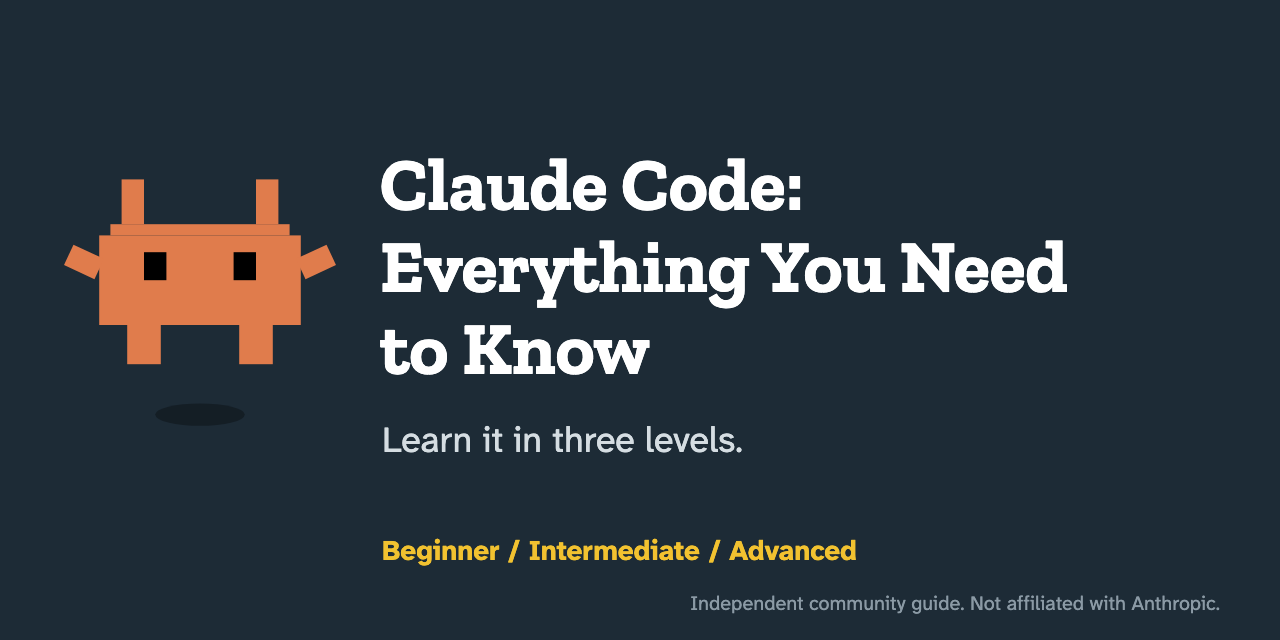
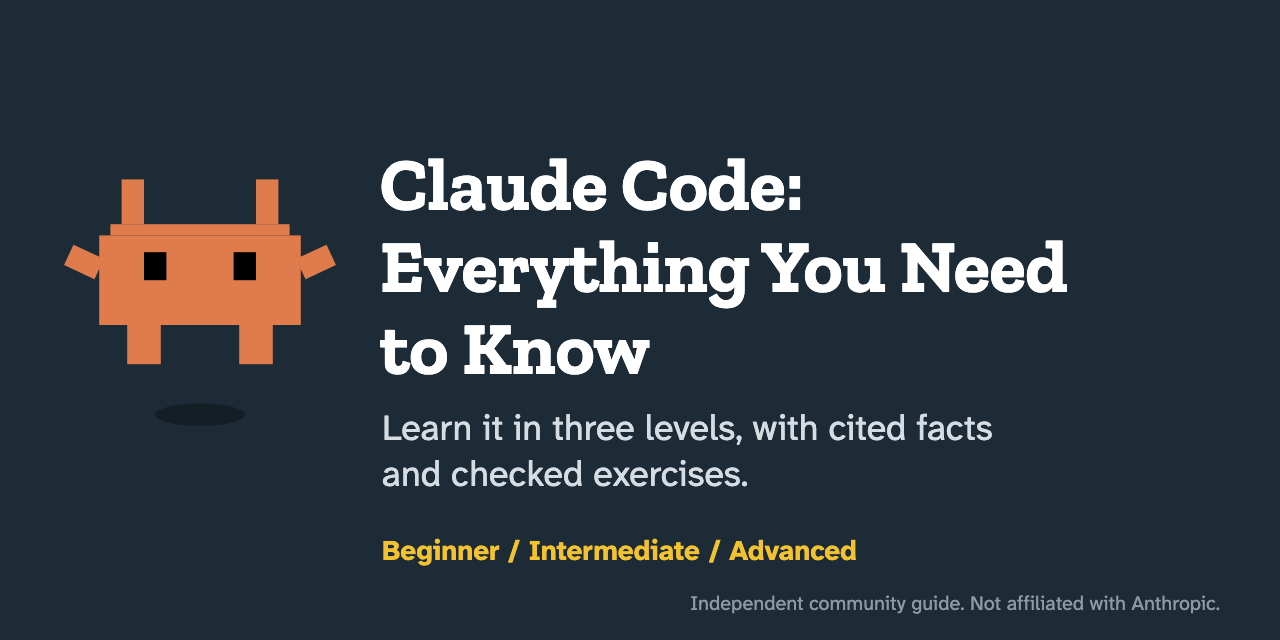
docs: re-verify every page against Claude Code v2.1.292 and put the full tagline on the social card (#125)

Changed region(s): [[0.2812, 0.6562, 0.7812, 0.7812]]

diff --git a/CHANGELOG.md b/CHANGELOG.md
@@ -4,9 +4,9 @@ Editions of this guide, newest first. An edition is tagged `vYYYY.MM`, and a cor
 
 ## Unreleased
 
-Baseline: Claude Code v2.1.285 (stable), frozen on 2026-10-05.
+Baseline: Claude Code v2.1.292 (stable), frozen on 2026-10-15.
 
-Every change in the next edition is verified against this version, the `stable` dist-tag of [`@anthropic-ai/claude-code`](https://www.npmjs.com/package/@anthropic-ai/claude-code?activeTab=versions) on 2026-10-05. It stays frozen until the edition ships, unless a later `stable` release removes, renames or changes the default of something a lesson teaches.
+Every change in the next edition is verified against this version, the `stable` dist-tag of [`@anthropic-ai/claude-code`](https://www.npmjs.com/package/@anthropic-ai/claude-code?activeTab=versions) on 2026-10-15. It stays frozen until the edition ships, unless a later `stable` release removes, renames or changes the default of something a lesson teaches.
 
 Editions 2 and 3: the Intermediate and Advanced paths, with checked exercises. Every level is now rebuilt, and no page from the previous edition remains.
 
@@ -23,6 +23,7 @@ Editions 2 and 3: the Intermediate and Advanced paths, with checked exercises. E
 ### Changed
 
 - The animated Claude mascot is back beside README's title, and the social card shows it in place of the trail blazes. It comes from [shanraisshan/claude-code-best-practice](https://github.com/shanraisshan/claude-code-best-practice) under the MIT License.
+- Every stamped page is re-verified against Claude Code v2.1.292 (stable), and the social card carries the full tagline, "Learn it in three levels, with cited facts and checked exercises."
 - The topic pages, [Commands by level](docs/reference/commands.md) and the [Feature map](docs/reference/feature-map.md) link the Intermediate and Advanced lessons and Electives, and "When to use what" on the [Intermediate index](docs/intermediate/README.md#when-to-use-what) links the dynamic workflows lesson.
 - docs/reference/effort-levels.md and docs/skills.md are now stubs that point to the lessons and reference pages that replace them, and the `mcp-servers/` and `specialized-agents/` stubs point to the MCP and subagent lessons.
 - docs/agent-teams.md, docs/workflows.md and docs/reference/faq.md are now stubs that point to the lessons, Electives and reference pages that replace them.

diff --git a/examples/advanced/06-share-your-setup/README.md b/examples/advanced/06-share-your-setup/README.md
@@ -46,7 +46,7 @@ Then commit `team-marketplace/` and `.claude/settings.json`.
 `dot-claude-plugin/marketplace.json` and `plugins/team-kit/.claude-plugin/plugin.json`:
 - **What:** a marketplace, `team-tools`, that lists `team-kit` by the relative path `./plugins/team-kit`, and the plugin's manifest, `team-kit` at version `0.1.0`. The entry name and the manifest name are the same, as the docs ask ([Create a marketplace](https://code.claude.com/docs/en/plugins/create-marketplace#keep-the-entry-name-and-the-manifest-name-the-same)).
 - **When:** in a session where the plugin is enabled, `/team-kit:onboard` runs the skill ([Add components to a plugin](https://code.claude.com/docs/en/plugins/components#skills)), and `@agent-team-kit:config-reviewer` runs the subagent ([Create custom subagents](https://code.claude.com/docs/en/sub-agents#invoke-subagents-explicitly)). Claude can also use either one when your request matches its description.
-- **Side effects:** none. The plugin has no hooks, monitors, MCP or LSP servers or `bin/` folder, so nothing in it runs code, and its skill pre-approves no tools with `allowed-tools`; its skill and subagent enter Claude's context as instructions ([Plugin security and trust](https://code.claude.com/docs/en/plugins/security#understand-what-a-plugin-can-do)). The subagent's only tools are Read, Grep and Glob. The skill and the subagent carry their own header blocks, as comments at the top of their frontmatter.
+- **Side effects:** none. The plugin has no hooks, monitors, mods, MCP or LSP servers or `bin/` folder, so nothing in it runs code, and its skill pre-approves no tools with `allowed-tools`; its skill and subagent enter Claude's context as instructions ([Plugin security and trust](https://code.claude.com/docs/en/plugins/security#understand-what-a-plugin-can-do)). The subagent's only tools are Read, Grep and Glob. The skill and the subagent carry their own header blocks, as comments at the top of their frontmatter.
 - **Requires:** Claude Code. Platforms: any; `test.sh` needs bash, jq and awk (macOS, Linux and WSL 2).
 - **Remove:** see [Remove it](#remove-it).
 

diff --git a/docs/intermediate/02-organize-memory.md b/docs/intermediate/02-organize-memory.md
@@ -1,6 +1,6 @@
 # Organize project memory and see what loaded
 
-<sub>**Intermediate** · Lesson 2 of 8 · about 20 minutes · Needs: [Turn a repeated workflow into a skill](01-first-skill.md) · Verified against Claude Code v2.1.285 (stable) on 2026-10-06</sub>
+<sub>**Intermediate** · Lesson 2 of 8 · about 20 minutes · Needs: [Turn a repeated workflow into a skill](01-first-skill.md) · Verified against Claude Code v2.1.292 (stable) on 2026-10-15</sub>
 
 ## Goal
 
@@ -23,7 +23,7 @@ A long `CLAUDE.md` is hard to maintain, and every line of it loads into every se
 |---|---|
 | `CLAUDE.md` at the project root, and a rule without `paths:` | When the session starts |
 | A file named in an `@path` import | With the file that imports it |
-| A rule with `paths:` | When Claude reads a matching file with its Read tool |
+| A rule with `paths:` | When Claude reads, writes or edits a matching file with its Read, Write or Edit tool |
 | Auto memory, the notes Claude keeps for itself | When the session starts: the first 200 lines or 25KB of its `MEMORY.md` index |
 
 When Claude ignores an instruction, first find out whether its file loaded. If it did, the wording is the likely problem: make it concrete, and remove any instruction that contradicts it ([Debug your configuration](https://code.claude.com/docs/en/debug-your-config#see-what-loaded-into-context)).

diff --git a/docs/advanced/capstone.md b/docs/advanced/capstone.md
@@ -1,6 +1,6 @@
 # Advanced capstone: add CI review your team can share
 
-<sub>**Advanced** · Capstone · 30 to 60 minutes, plus run time · Needs: the seven [Advanced lessons](README.md), or their skills · Verified against Claude Code v2.1.285 (stable) on 2026-10-09</sub>
+<sub>**Advanced** · Capstone · 30 to 60 minutes, plus run time · Needs: the seven [Advanced lessons](README.md), or their skills · Verified against Claude Code v2.1.292 (stable) on 2026-10-15</sub>
 
 This task puts the whole Advanced level together, in a new copy of the practice template that you tear down at the end. It has no worked example: the brief says what the team needs, and you choose how to build it. The [Advanced Exit](README.md#by-the-end-of-this-level-you-can) is the list of what you can do by the end of this level. The check reads what you commit and two files you save under `.practice/`, and you tick the rest of the Exit yourself under [What the check can't see](#what-the-check-cant-see).
 

diff --git a/docs/beginner/capstone.md b/docs/beginner/capstone.md
@@ -1,6 +1,6 @@
 # Beginner capstone: fix a reported bug, from plan to commit
 
-<sub>**Beginner** · Capstone · 30 to 60 minutes · Needs: the five [Beginner lessons](README.md), or their skills · Verified against Claude Code v2.1.285 (stable) on 2026-10-05</sub>
+<sub>**Beginner** · Capstone · 30 to 60 minutes · Needs: the five [Beginner lessons](README.md), or their skills · Verified against Claude Code v2.1.292 (stable) on 2026-10-15</sub>
 
 This task puts the whole Beginner level together. Unlike the lessons, it has no worked example: the steps say what to do, and you choose the prompts. The [Beginner Exit](README.md#by-the-end-of-this-level-you-can) is the list of what you can do by the end of this level. The check reads the files and the commit this task leaves behind, and you tick the rest of the Exit yourself under [What the check can't see](#what-the-check-cant-see). When both are done, you've shown the Beginner Exit, whether you took the lessons or not.
 

diff --git a/docs/intermediate/capstone.md b/docs/intermediate/capstone.md
@@ -1,6 +1,6 @@
 # Intermediate capstone: get a repository ready for a new teammate
 
-<sub>**Intermediate** · Capstone · 30 to 60 minutes · Needs: the eight [Intermediate lessons](README.md), or their skills · Verified against Claude Code v2.1.285 (stable) on 2026-10-06</sub>
+<sub>**Intermediate** · Capstone · 30 to 60 minutes · Needs: the eight [Intermediate lessons](README.md), or their skills · Verified against Claude Code v2.1.292 (stable) on 2026-10-15</sub>
 
 This task puts the whole Intermediate level together. It has no worked example: the brief says what the team needs, and you choose how to build it. The [Intermediate Exit](README.md#by-the-end-of-this-level-you-can) is the list of what you can do by the end of this level. The check reads what you commit, and you tick the rest of the Exit yourself under [What the check can't see](#what-the-check-cant-see).
 

diff --git a/docs/intermediate/08-plugins.md b/docs/intermediate/08-plugins.md
@@ -1,6 +1,6 @@
 # Install and manage plugins
 
-<sub>**Intermediate** · Lesson 8 of 8 · about 20 minutes · Needs: [Turn a repeated workflow into a skill](01-first-skill.md), [Enforce a rule with a hook](05-hooks.md), [Delegate to a custom subagent](06-subagents.md), [Connect a tool with MCP](07-mcp.md) · Verified against Claude Code v2.1.285 (stable) on 2026-10-06</sub>
+<sub>**Intermediate** · Lesson 8 of 8 · about 20 minutes · Needs: [Turn a repeated workflow into a skill](01-first-skill.md), [Enforce a rule with a hook](05-hooks.md), [Delegate to a custom subagent](06-subagents.md), [Connect a tool with MCP](07-mcp.md) · Verified against Claude Code v2.1.292 (stable) on 2026-10-15</sub>
 
 ## Goal
 

diff --git a/docs/reference/models.md b/docs/reference/models.md
@@ -1,7 +1,7 @@
 <a id="models--specifications--pricing"></a>
 # Models and effort
 
-<sub>Verified against Claude Code v2.1.285 (stable) on 2026-10-05</sub>
+<sub>Verified against Claude Code v2.1.292 (stable) on 2026-10-15</sub>
 
 Which model a session runs and how hard it thinks are two separate choices. This page is the lookup for both: the model aliases, the effort levels and the ways to set them. Which model and effort a task needs is taught in the Intermediate lesson [Pick the model and effort](../intermediate/03-model-and-effort.md). To compare the current models and find their IDs, see Anthropic's [models overview](https://platform.claude.com/docs/en/about-claude/models/overview).
 

diff --git a/docs/reference/commands.md b/docs/reference/commands.md
@@ -1,7 +1,7 @@
 <a id="slash-commands--cheatsheet"></a>
 # Commands by level
 
-<sub>Verified against Claude Code v2.1.285 (stable) on 2026-10-05</sub>
+<sub>Verified against Claude Code v2.1.292 (stable) on 2026-10-15</sub>
 
 The built-in commands, bundled skills and workflows, and `claude` command-line forms the lessons use, grouped by the level that teaches them. It is not the full list: the official [commands reference](https://code.claude.com/docs/en/commands#all-commands) has every command and its options, the [CLI reference](https://code.claude.com/docs/en/cli-reference#cli-flags) has the command-line flags, and typing `/` in a session shows the commands available to you.
 

diff --git a/docs/advanced/electives/agent-view.md b/docs/advanced/electives/agent-view.md
@@ -1,6 +1,6 @@
 # Agent view
 
-<sub>**Advanced** · Elective · about 20 minutes, plus run time · Needs: [Parallel sessions with worktrees](../01-parallel-sessions.md) · Verified against Claude Code v2.1.285 (stable) on 2026-10-09</sub>
+<sub>**Advanced** · Elective · about 20 minutes, plus run time · Needs: [Parallel sessions with worktrees](../01-parallel-sessions.md) · Verified against Claude Code v2.1.292 (stable) on 2026-10-15</sub>
 
 > [!NOTE]
 > "Agent view is in research preview. The interface and keyboard shortcuts may change as the feature evolves." ([Manage multiple agents with agent view](https://code.claude.com/docs/en/agent-view))

diff --git a/docs/reference/feature-map.md b/docs/reference/feature-map.md
@@ -1,6 +1,6 @@
 # Feature map
 
-<sub>Verified against Claude Code v2.1.285 (stable) on 2026-10-05</sub>
+<sub>Verified against Claude Code v2.1.292 (stable) on 2026-10-15</sub>
 
 Every current Claude Code feature and surface a Learner is likely to meet, with its stability label in the docs' own words and the plans or providers that have it. Each feature links its official page and, where a lesson or Elective teaches it, the guide pages that teach it. For what changed recently, see the official [CHANGELOG](https://github.com/anthropics/claude-code/blob/main/CHANGELOG.md) and [What's new](https://code.claude.com/docs/en/whats-new).
 

diff --git a/docs/advanced/electives/goal-loop-routines.md b/docs/advanced/electives/goal-loop-routines.md
@@ -1,6 +1,6 @@
 # `/goal`, `/loop` and routines
 
-<sub>**Advanced** · Elective · about 20 minutes, plus run time · Needs: [Put bounds on autonomous runs](../07-bounded-runs.md) · Verified against Claude Code v2.1.285 (stable) on 2026-10-09</sub>
+<sub>**Advanced** · Elective · about 20 minutes, plus run time · Needs: [Put bounds on autonomous runs](../07-bounded-runs.md) · Verified against Claude Code v2.1.292 (stable) on 2026-10-15</sub>
 
 > [!NOTE]
 > "Routines are in research preview. Behavior, limits, and the API surface may change." ([Automate work with routines](https://code.claude.com/docs/en/routines))
